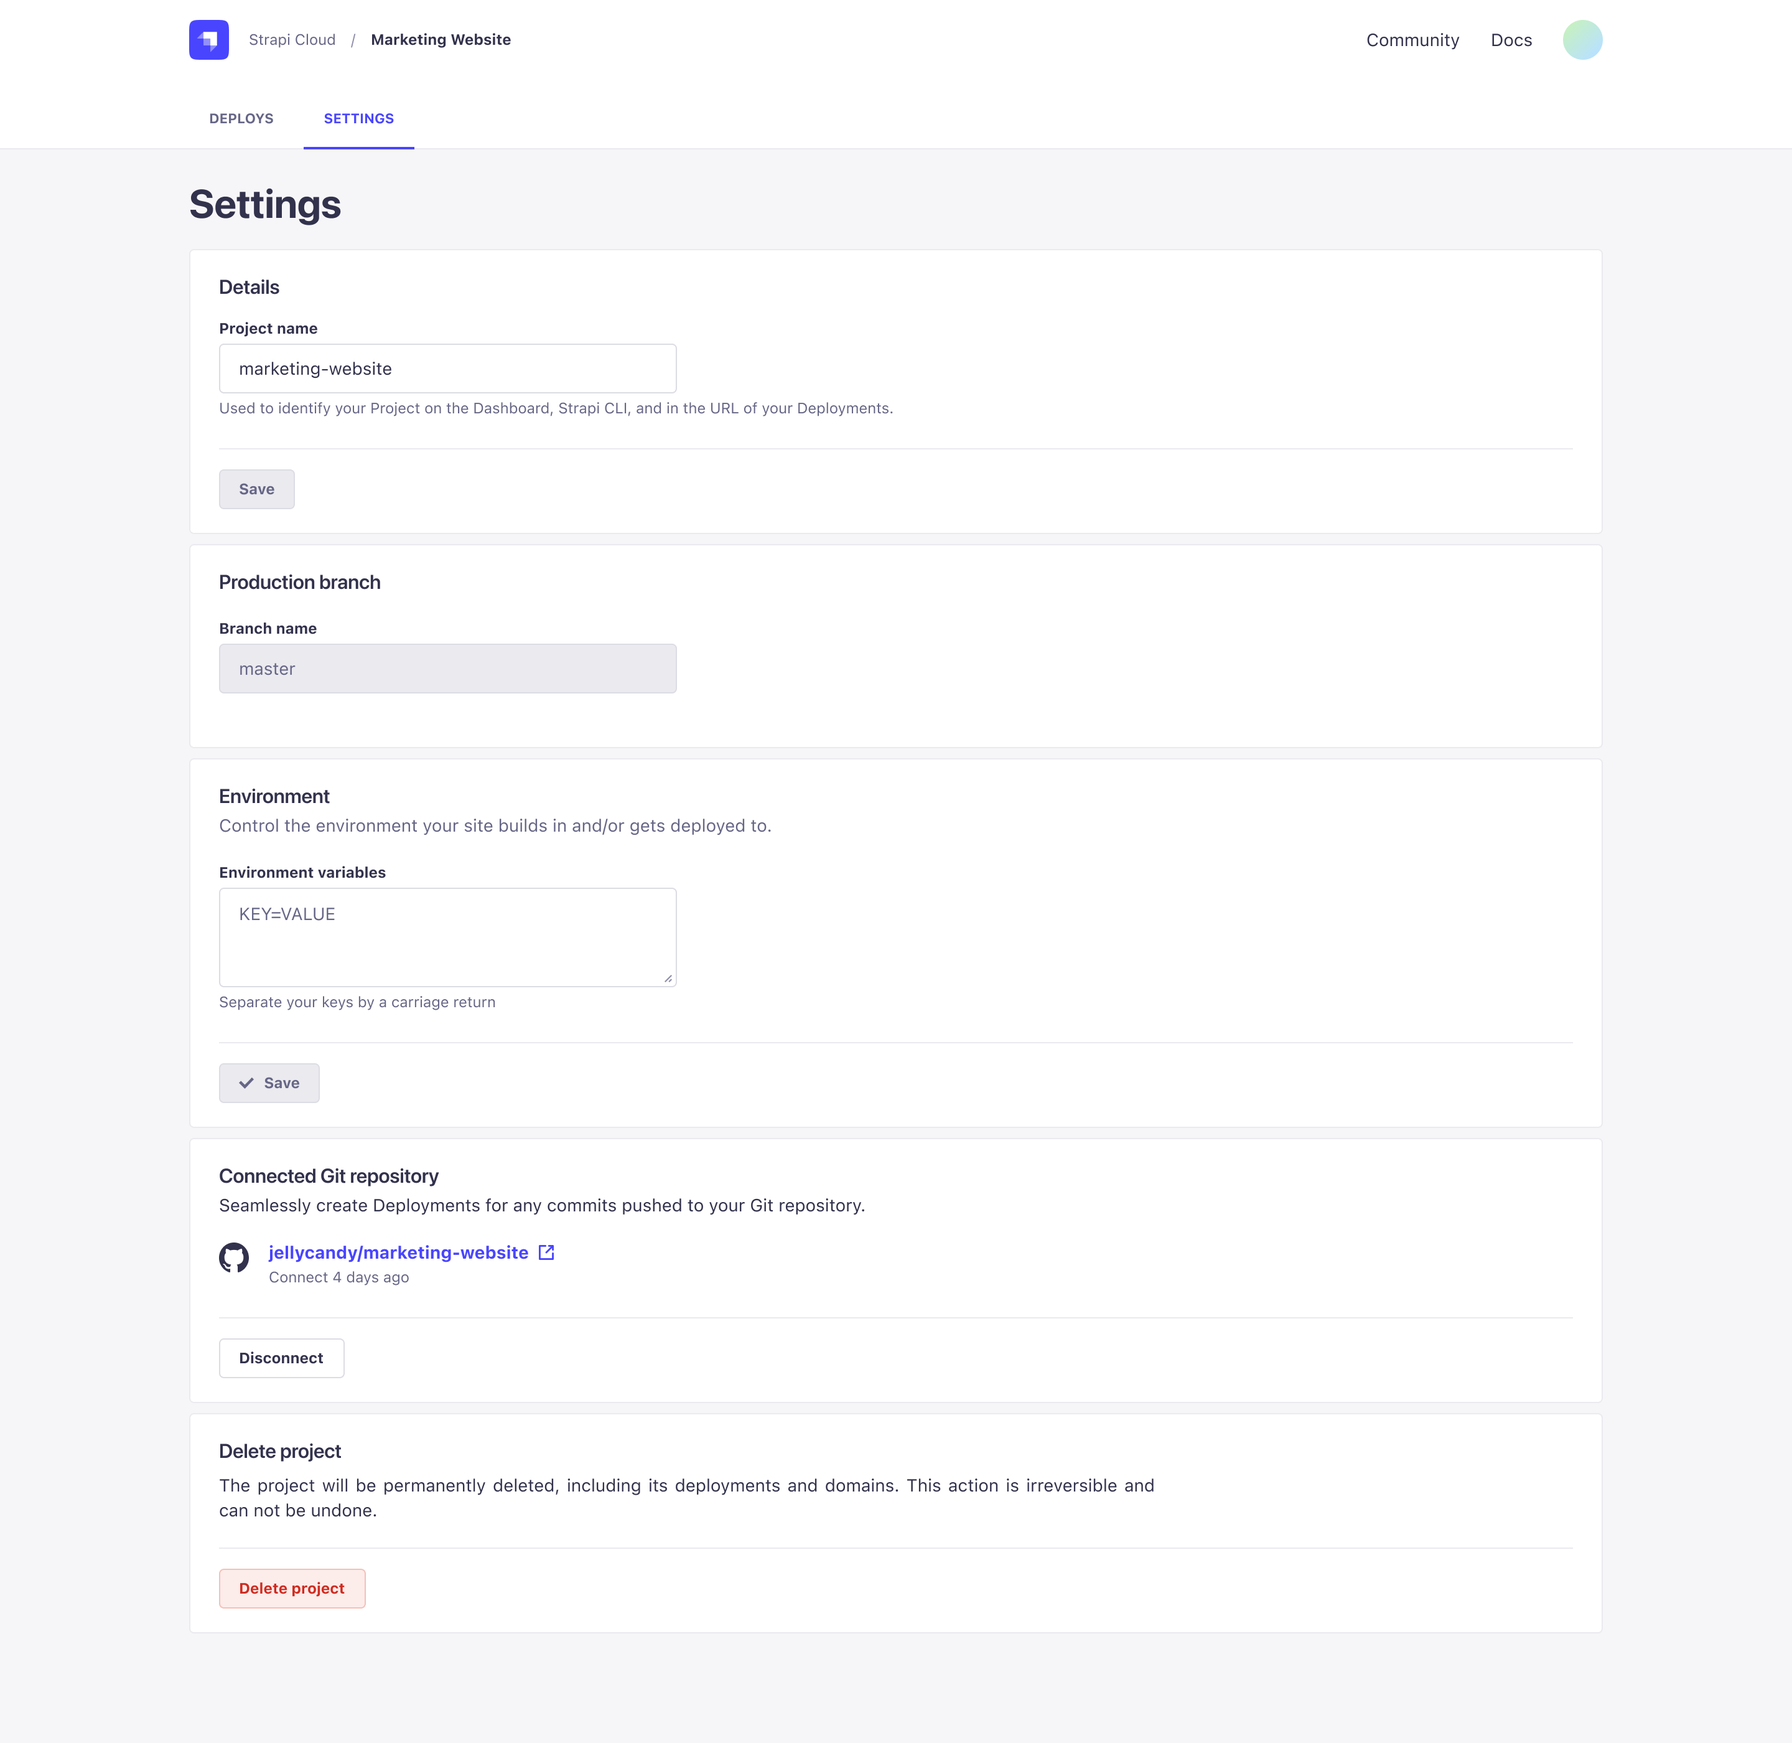
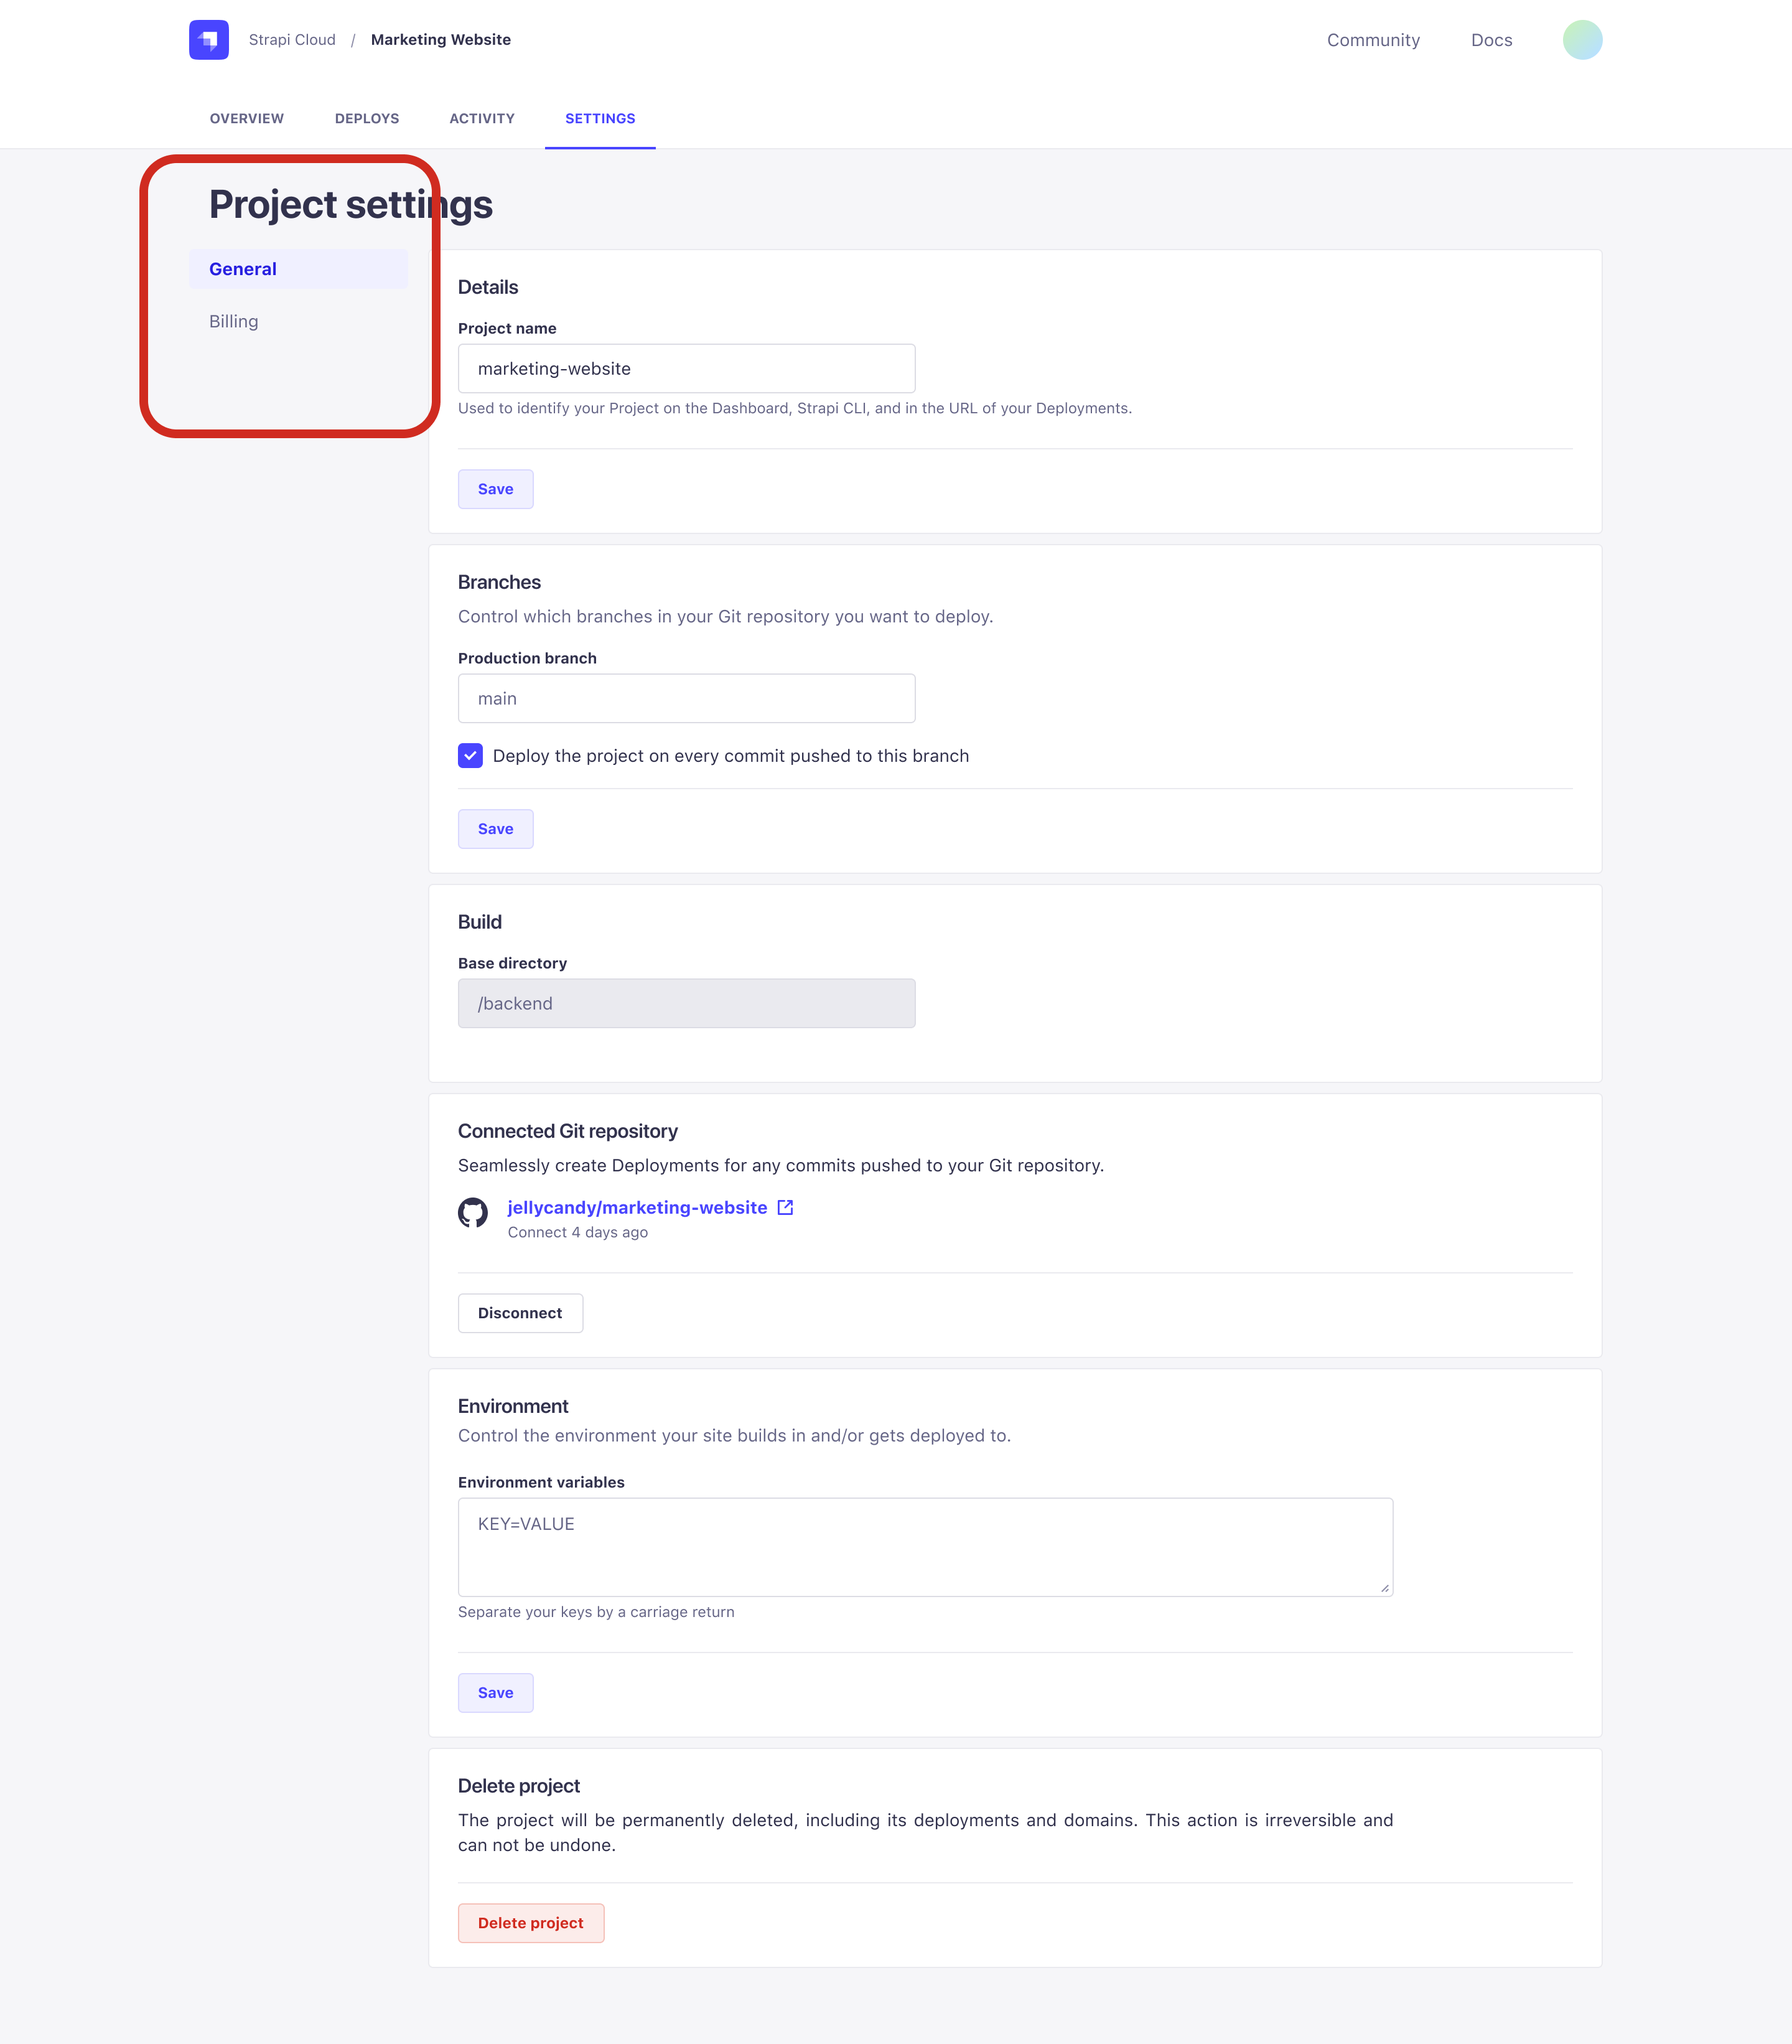
Update for Billing MVP

diff --git a/docusaurus/docs/cloud/projects/settings.md b/docusaurus/docs/cloud/projects/settings.md
@@ -15,30 +15,17 @@ The **General** tab enables you to edit the following details for the project:
 
 * **Project name**: The name of your Strapi app, used to identify the project on the Cloud Dashboard, Strapi CLI, and deployment URLs.
 * **Production branch**: The branch of the linked repository to use for production deployments.
-* **Base directory**: Enables you to set the base directory of your Strapi app. This is useful if your Strapi app is not in the root directory of your repository.
+* **Base directory**: The directory where your Strapi app is located in the repository. This is useful if you have multiple Strapi apps in the same repository or if you have a monorepo.
 * **Connected GitHub repository**: The Git repository linked to the project.
+* **Environment variables**: Environment variables are used to configure the environment of your Strapi app.
 * **Delete project**: This will ***permanently and irreversibly*** delete the project and all its associated data.
 
 ![Project settings](/img/assets/cloud/settings.png)
 
-## Variables
+## Billing
 
-The **Variables** tab enables you to set and manage [environment variables](/dev-docs/configurations/environment/) for the project. These variables are available to your Strapi app at runtime.
+The **Billing** section displays the current subscription plan and included usage for the project.
 
-![Project variables](/img/assets/cloud/settings_variables.png)
+Use the **Manage subscription** button to change the subscription plan.
 
-## Plans & Billing
-
-The **Plans & Billing** tab enables you to manage your project's billing and subscription plan. You can view the details of your current plan, along with current and previous invoices, and upgrade or downgrade your plan.
-
-![Project plans & billing](/img/assets/cloud/settings_billing.png)
-
-## Usage
-
-The **Usage** tab displays the current usage of the project, based on the limits of the current billing plan. 
-
-This includes the number of **Database Entries**, amount of **Database Storage**, and **API Bandwidth** used. If you have exceeded, or are approaching, the limits of your current plan, you will see a warning message.
-
-You can filter the usage according to a desired time period.
-
-![Project usage](/img/assets/cloud/settings_usage.png)
+![Project billing](../assets/deployment/cloud/settings_billing.png)

diff --git a/docusaurus/docs/cloud/getting-started/deployment.md b/docusaurus/docs/cloud/getting-started/deployment.md
@@ -13,7 +13,7 @@ This is a step-by-step guide for deploying your Strapi application on Strapi Clo
 
 Before you can deploy your Strapi application on Strapi Cloud, you need to have the following prerequisites:
 
-* Strapi version `4.4.x` or higher
+* Strapi version `4.6.x` or higher
 * Database: Project must be compatible with PostgreSQL. Use of any external database is not supported.
 * Project(s) source code hosted on [GitHub](https://github.com)
     * The connected repository can contain multiple Strapi applications. Each Strapi app must be in a separate directory.
@@ -35,6 +35,10 @@ Importing data from an existing Strapi application and data backups for a Strapi
     ![Strapi Cloud Projects page](/img/assets/cloud/projects_empty.png)
 
 ### Create a project
+
+The first time logging into Strapi Cloud, a welcome page is displayed providing a link to the terms of service and prompting you to **Start free trial** to continue.
+
+![Strapi Cloud welcome page](img/assets/cloud/welcome-screen.png)
 
 1. From the **Projects** page, click the **Create Project** button. You are prompted to **Connect with GitHub**.
 
@@ -61,4 +65,12 @@ Importing data from an existing Strapi application and data backups for a Strapi
 
     ![Advanced Setup](/img/assets/cloud/advanced.png)
 
-5. Click **Create** to finalize the project creation. An initial deployment is triggered and you are redirected to the **Projects** page.
+5. Click **Next** to proceed to the **Payment and billing** page. Enter the corresponding billing details.
+
+    ::: tip
+    This is for verification purposes only. You will not be charged during the Beta release, or without notice.
+    :::
+
+    ![Payment and billing](/img/assets/cloud/billing-info.png)
+
+6. Click **Create** to finalize the project creation. An initial deployment is triggered and you are redirected to the **Projects** page.
